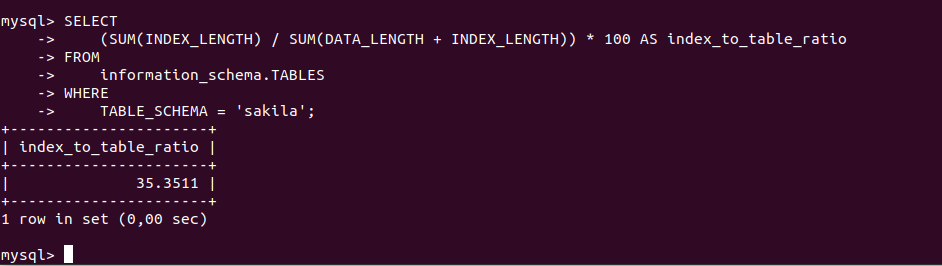
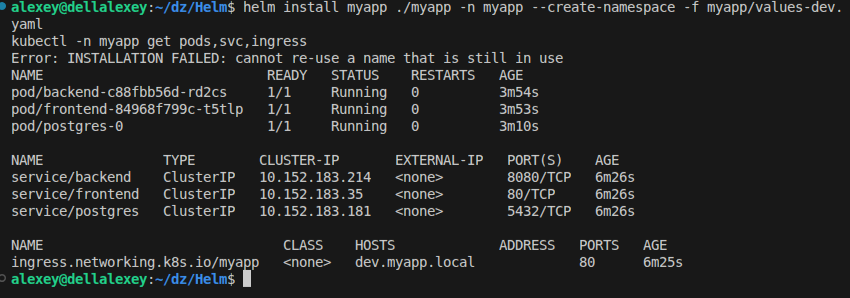
3

diff --git a/README.md b/README.md
@@ -333,18 +333,26 @@ spec:
 {{- end }}
 
 ```
-15. `  `
-16. `  `
-```
-Поле для вставки кода...
-....
-....
-....
-....
-```
+15. `Установка и проверка.  `
 
-`При необходимости прикрепитe сюда скриншоты
-![Название скриншота 1](ссылка на скриншот 1)`
+```
+helm install myapp ./myapp -n myapp --create-namespace -f myapp/values-dev.yaml
+kubectl -n myapp get pods,svc,ingress
+```
+![1](https://github.com/Foxbeerxxx/Helm/blob/main/img/img1.png)
+
+
+
+16. `Добавляю в host и проверяю через Ingress `
+
+```
+echo "127.0.0.1 dev.myapp.local" | sudo tee -a /etc/hosts
+curl -i -H "Host: dev.myapp.local" http://127.0.0.1/
+```
+![2](https://github.com/Foxbeerxxx/Helm/blob/main/img/img2.png)
+
+
+`При необходимости прикрепитe сюда скриншоты`
 
 
 ---
